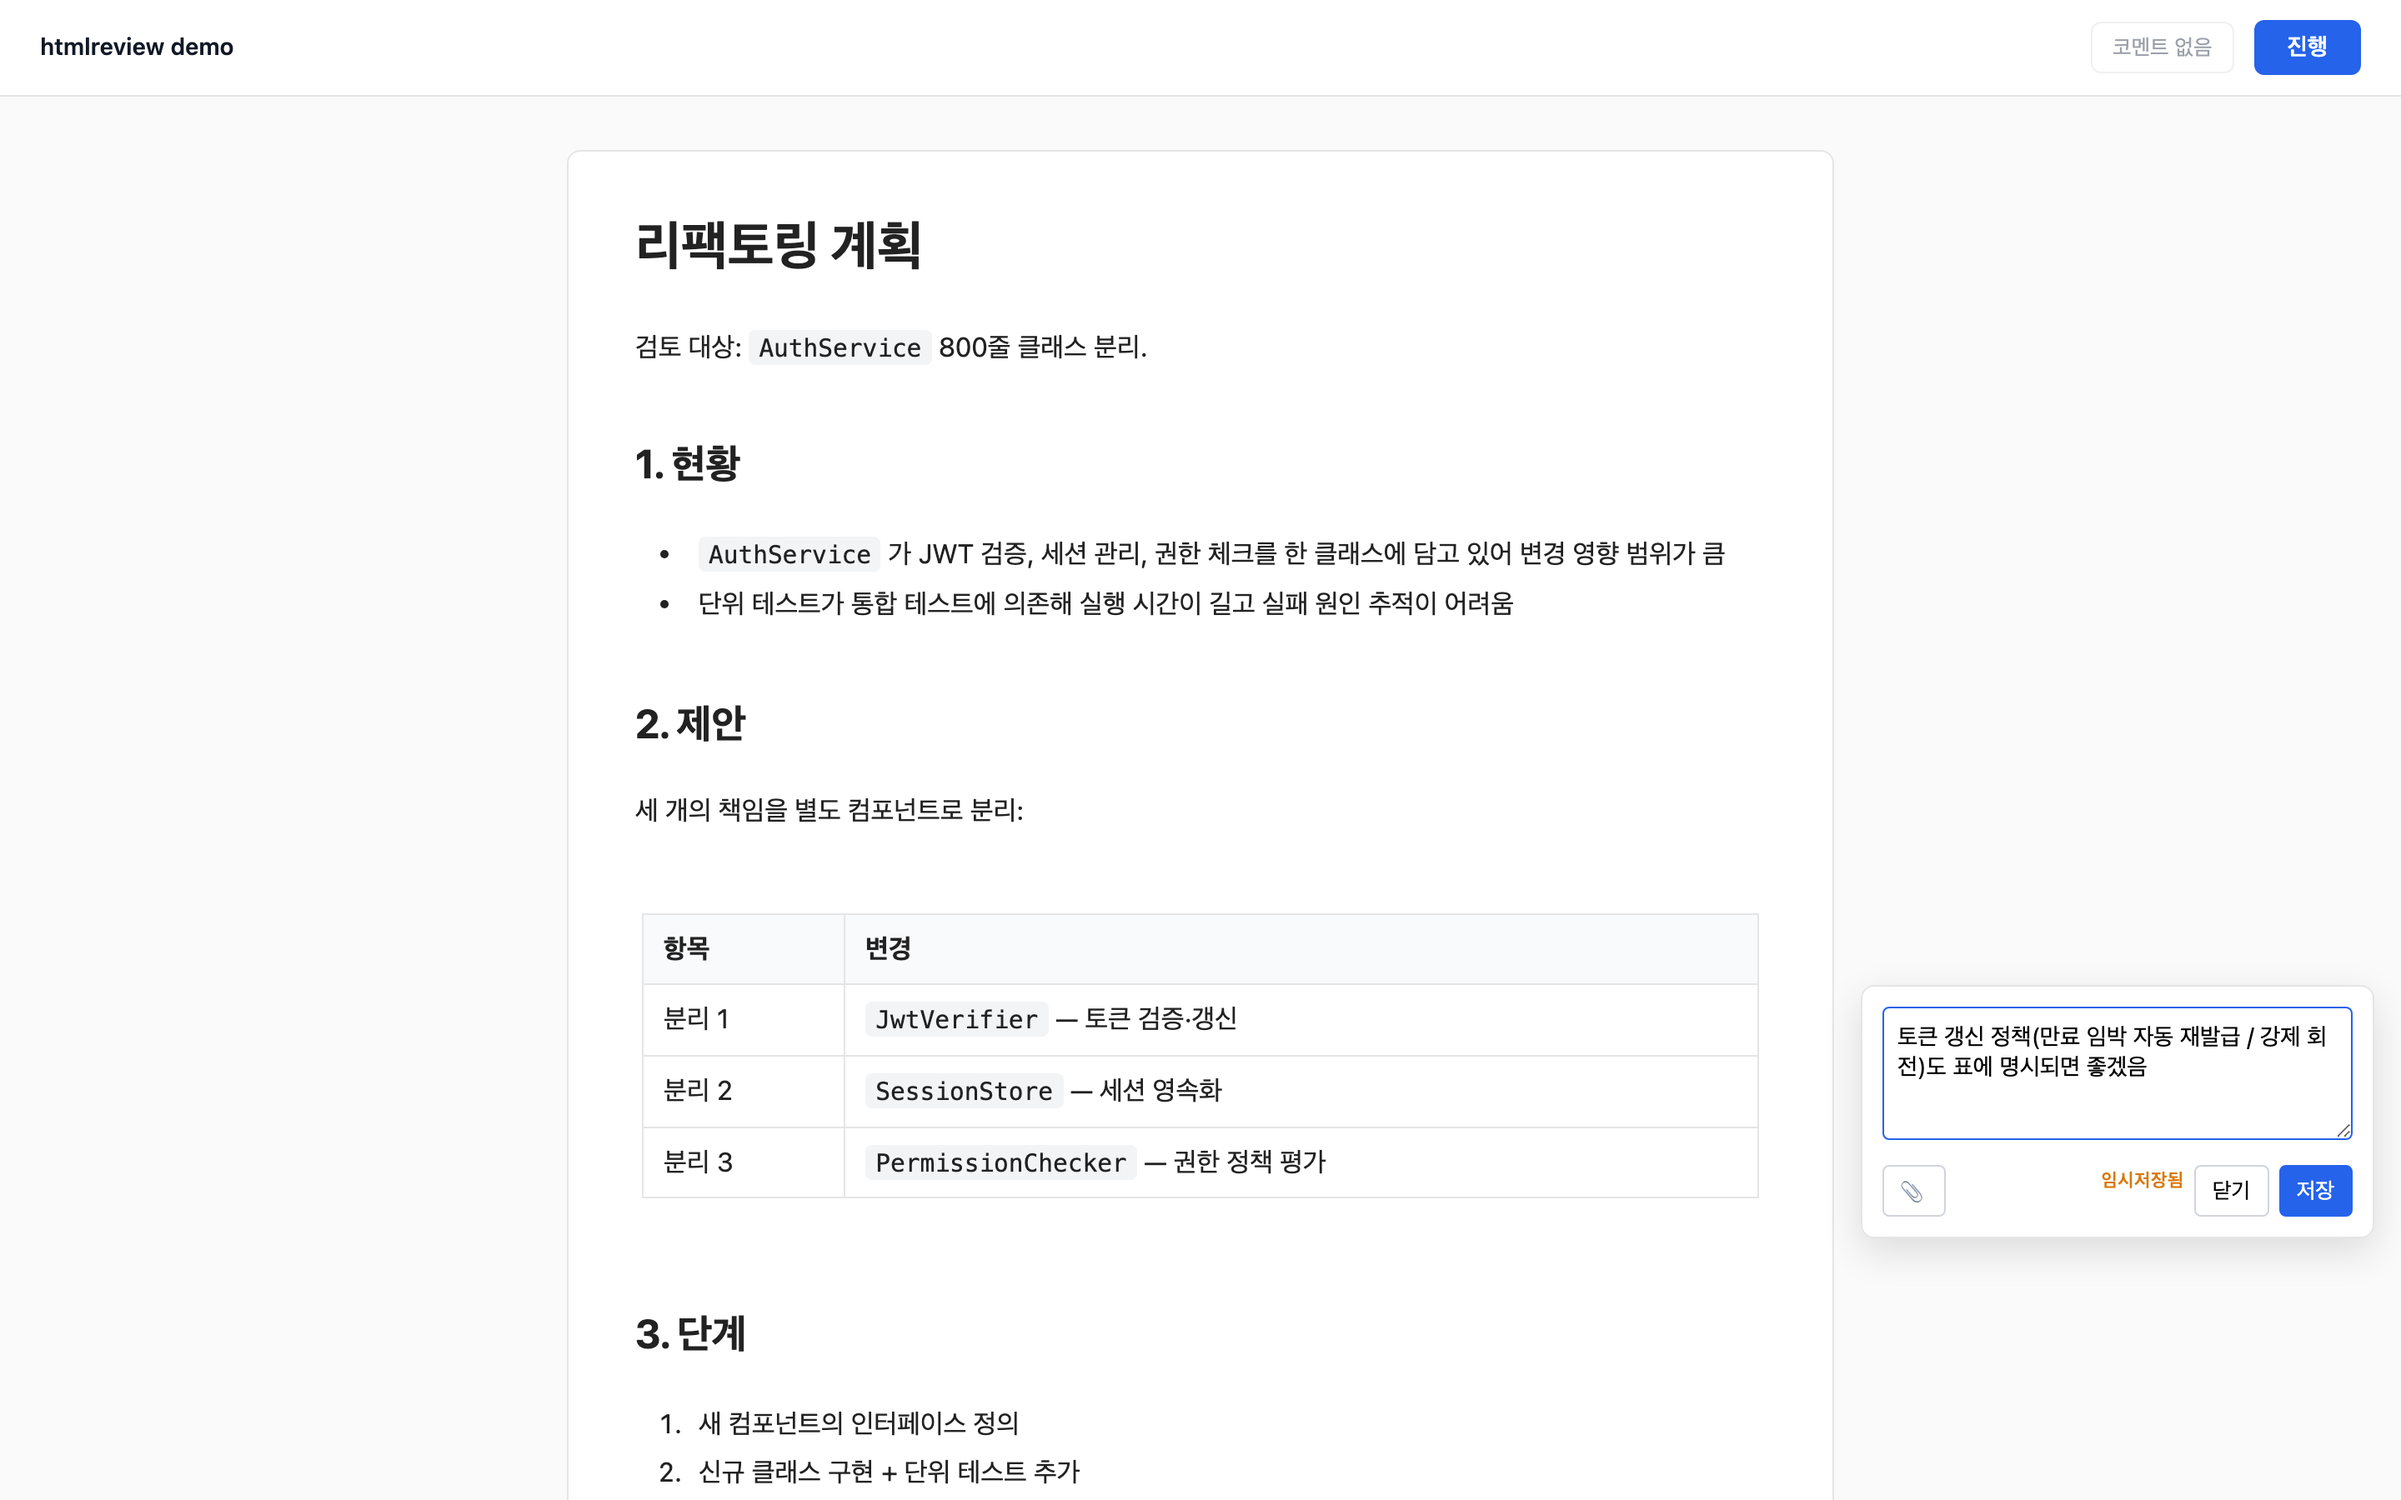
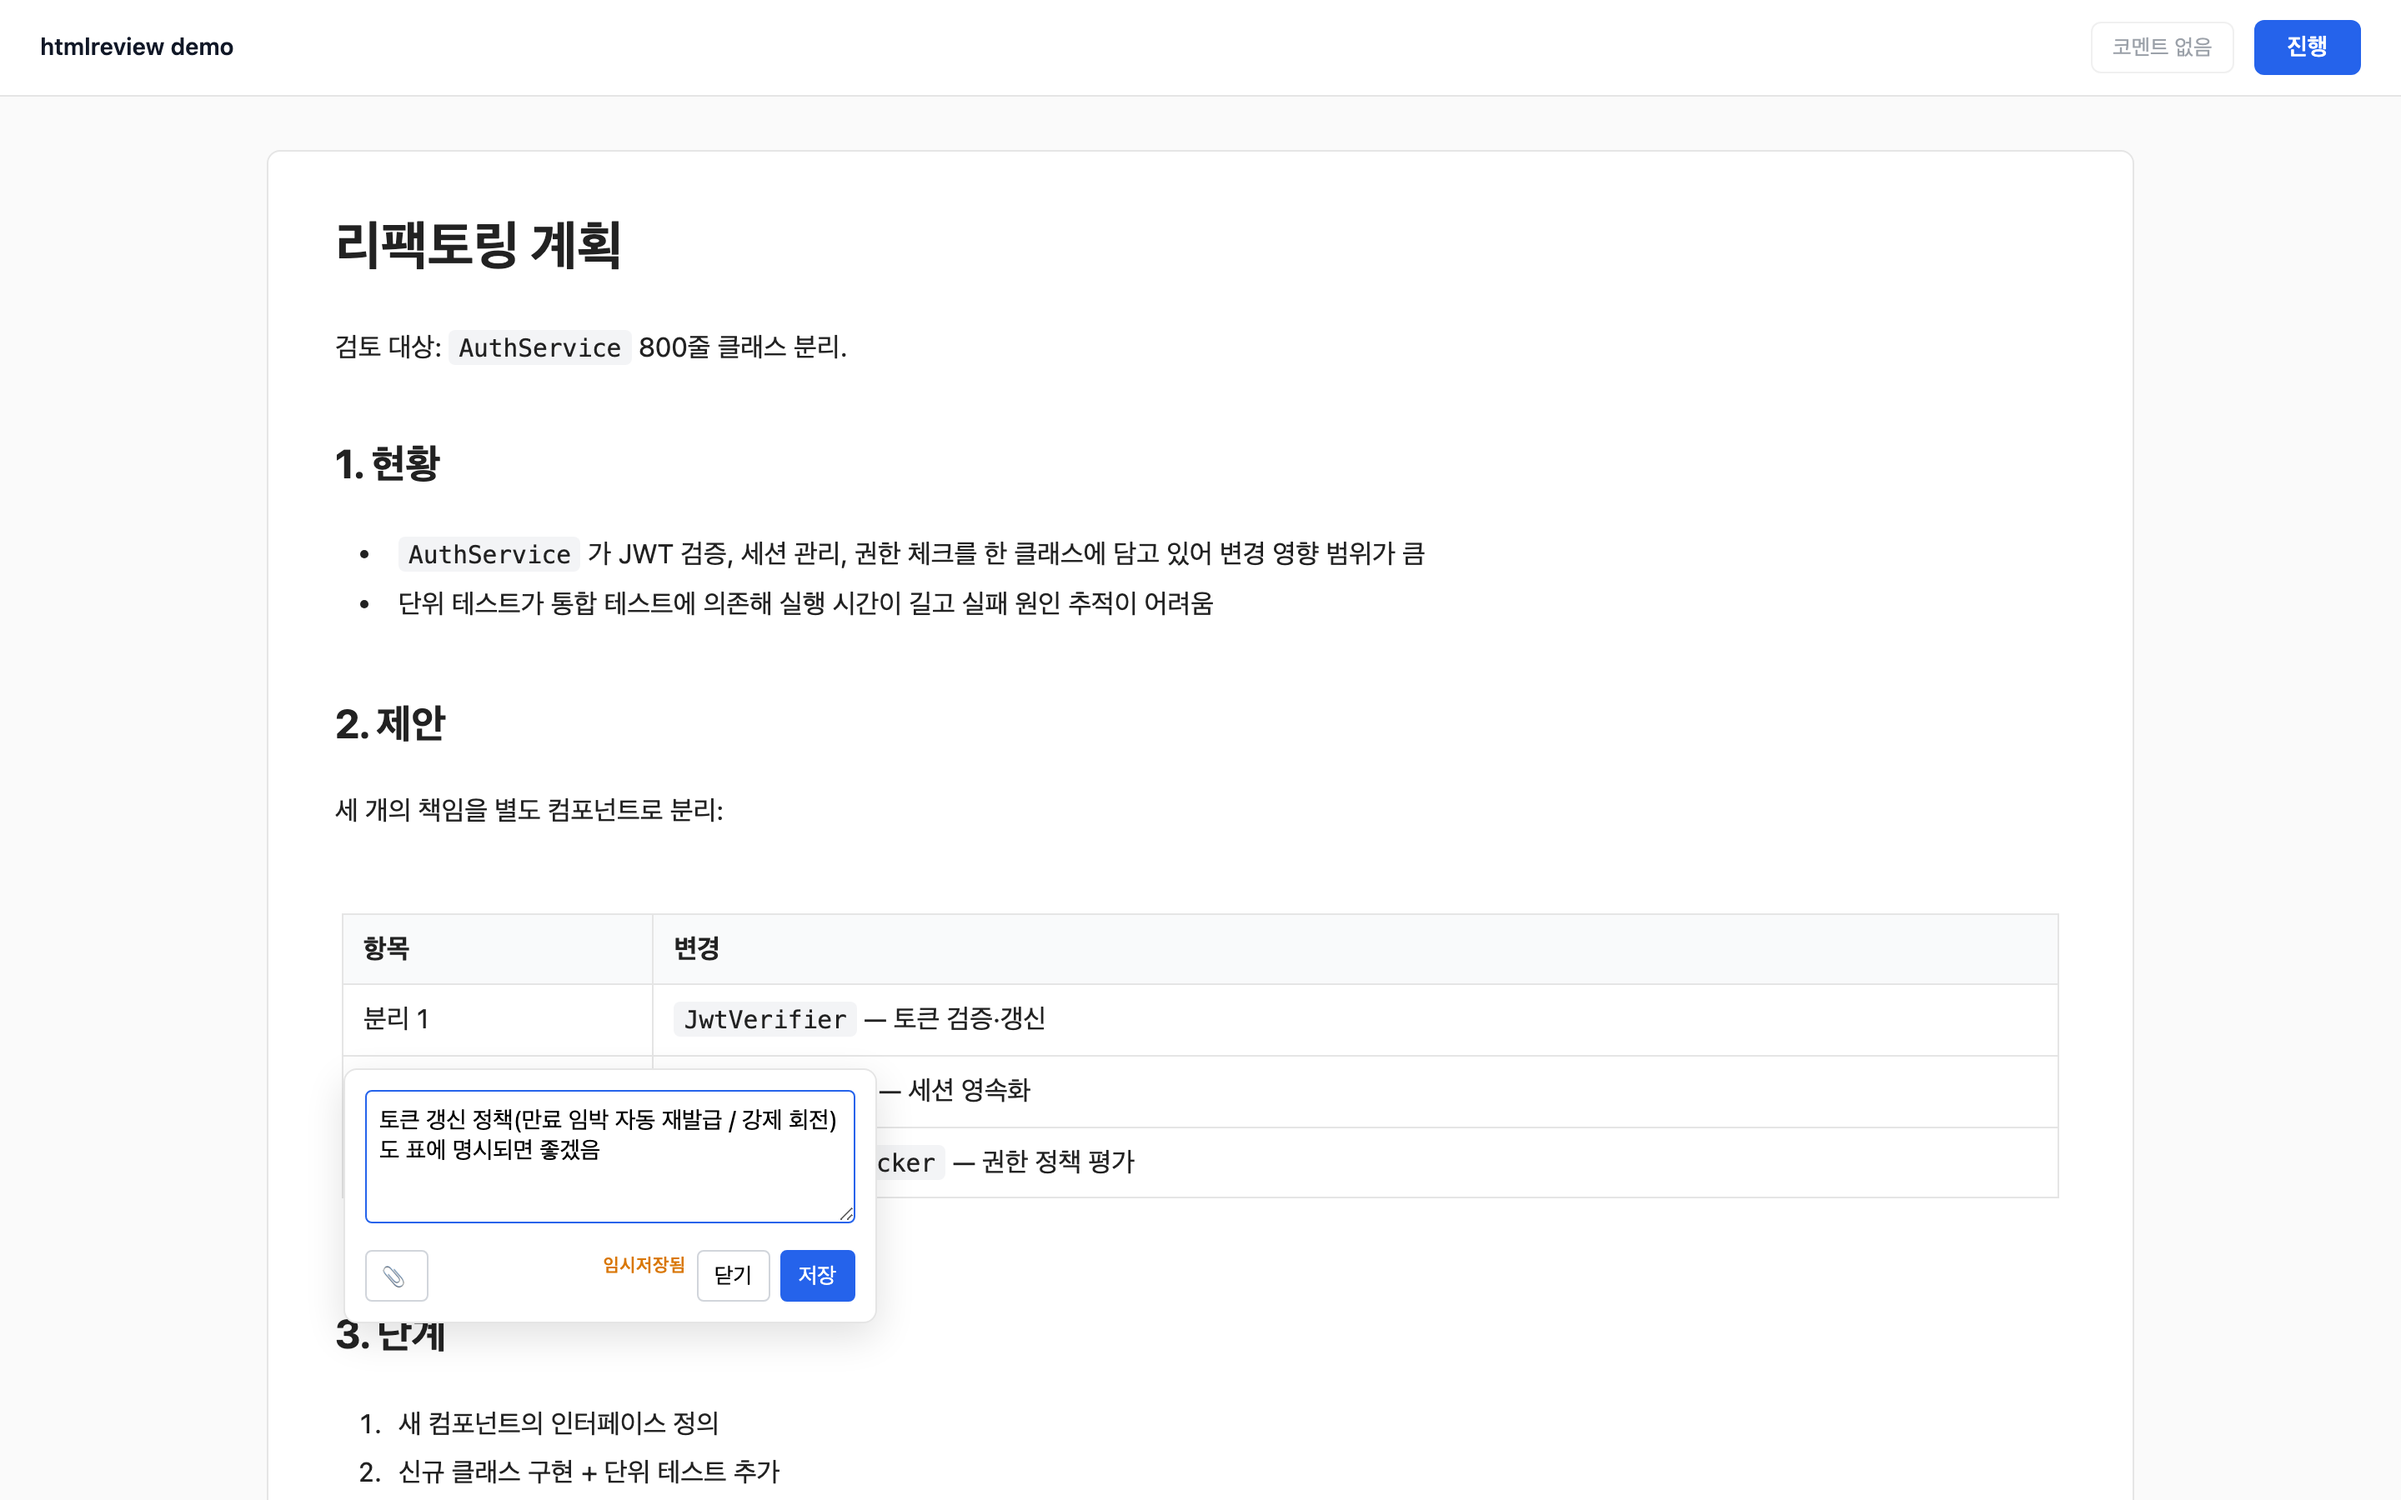
feat: add conversation review preset

diff --git a/web/style.css b/web/style.css
@@ -59,7 +59,7 @@ body {
 #submit-btn:hover { background: #1d4ed8; }
 
 .md-doc {
-  max-width: 760px;
+  max-width: 1120px;
   margin: 32px auto;
   padding: 32px;
   background: #fff;

diff --git a/README.ko.md b/README.ko.md
@@ -15,6 +15,10 @@
 |---|---|
 | ![코멘트 버블](https://raw.githubusercontent.com/Sangminnn/htmlreview/main/docs/screenshots/bubble.png) | ![revision 사이드바](https://raw.githubusercontent.com/Sangminnn/htmlreview/main/docs/screenshots/revision.png) |
 
+### Conversation review preset
+
+![Conversation review preset](https://raw.githubusercontent.com/Sangminnn/htmlreview/main/docs/screenshots/conversation-review.png)
+
 ## 설치
 
 ```bash
@@ -35,6 +39,9 @@ htmlreview design.html
 
 # 다음 라운드 — 이전 라운드 코멘트와 반영 내역을 사이드바에 표시
 htmlreview revised.md --revision-report round-1.json
+
+# Conversation review — assistant 응답을 시각적 리뷰 산출물로 변환
+htmlreview docs/examples/conversation-review.json --preset conversation-review
 ```
 
 | 옵션 | 기본값 | 비고 |
@@ -43,10 +50,33 @@ htmlreview revised.md --revision-report round-1.json
 | `--port <n>` | random ephemeral | HTTP 포트 |
 | `--no-open` | — | 브라우저 자동 열기 안 함 |
 | `--input-format <md\|html>` | 확장자 추론 | 입력 형식 강제 |
+| `--preset <name>` | — | 입력을 리뷰 전에 변환. 지원: `conversation-review` |
 | `--revision-report <file>` | — | 이전 라운드 `AnnotationCollection` JSON |
 | `--timeout <seconds>` | — | N초 내 제출 없으면 실패 종료 |
 | `-v / --version` | — | 버전 출력 |
 | `-h / --help` | — | 도움말 |
+
+## Conversation review preset
+
+agent 응답이 그대로 두면 skim-bait 이 될 때 사용합니다: 비교, 롤아웃 계획, 마이그레이션 위험도, 아키텍처 결정처럼 원문보다 구조 파악이 중요한 답변입니다.
+
+입력은 JSON 입니다:
+
+```json
+{
+  "title": "Checkout migration review",
+  "userText": "We need to migrate checkout from a legacy session-based flow to a new payment orchestration service. Compare three rollout strategies, show the risks for inventory reservation and coupon rollback, and propose a phased plan that support, backend, and frontend can all review.",
+  "assistantText": "## Recommendation\n\nUse a shadow-write rollout first..."
+}
+```
+
+실행:
+
+```bash
+htmlreview docs/examples/conversation-review.json --preset conversation-review
+```
+
+preset은 시각화 필요도 점수, 감지된 신호, 문서 밀도, 구조 지도, 핵심 항목 후보, 접을 수 있는 원문 응답을 포함한 self-contained HTML 산출물을 만듭니다. 목표는 markdown을 HTML로 감싸는 것이 아니라, 텍스트 벽을 브라우저에서 검토 가능한 화면으로 바꾸는 것입니다.
 
 ## 출력 schema
 

diff --git a/README.md b/README.md
@@ -19,6 +19,10 @@ conformant annotation tool — no bespoke JSON shape.
 |---|---|
 | ![Comment bubble](https://raw.githubusercontent.com/Sangminnn/htmlreview/main/docs/screenshots/bubble.png) | ![Revision sidebar](https://raw.githubusercontent.com/Sangminnn/htmlreview/main/docs/screenshots/revision.png) |
 
+### Conversation review preset
+
+![Conversation review preset](https://raw.githubusercontent.com/Sangminnn/htmlreview/main/docs/screenshots/conversation-review.png)
+
 ## Install
 
 ```bash
@@ -39,6 +43,9 @@ htmlreview design.html
 
 # Multi-round — show previous round's comments + your resolutions in sidebar
 htmlreview revised.md --revision-report round-1.json
+
+# Conversation review — turn assistant output into a visual review artifact
+htmlreview docs/examples/conversation-review.json --preset conversation-review
 ```
 
 | Option | Default | Notes |
@@ -47,10 +54,38 @@ htmlreview revised.md --revision-report round-1.json
 | `--port <n>` | random ephemeral | HTTP port |
 | `--no-open` | — | Don't auto-open browser |
 | `--input-format <md\|html>` | inferred from ext (`.md`/`.html`) | Force input format |
+| `--preset <name>` | — | Transform input before review. Supported: `conversation-review` |
 | `--revision-report <file>` | — | Previous round `AnnotationCollection` JSON |
 | `--timeout <seconds>` | — | Auto-fail if no submit within N seconds |
 | `-v / --version` | — | Print version |
 | `-h / --help` | — | Print help |
+
+## Conversation review preset
+
+Use this when an agent response would otherwise become skim-bait: comparisons,
+rollout plans, migration risk notes, architecture decisions, or any answer where
+structure matters more than raw prose.
+
+Input is JSON:
+
+```json
+{
+  "title": "Checkout migration review",
+  "userText": "We need to migrate checkout from a legacy session-based flow to a new payment orchestration service. Compare three rollout strategies, show the risks for inventory reservation and coupon rollback, and propose a phased plan that support, backend, and frontend can all review.",
+  "assistantText": "## Recommendation\n\nUse a shadow-write rollout first..."
+}
+```
+
+Run:
+
+```bash
+htmlreview docs/examples/conversation-review.json --preset conversation-review
+```
+
+The preset creates a self-contained HTML artifact with visual need scoring,
+detected signals, density metrics, a structure map, key item extraction, and a
+collapsible original response. The goal is not to wrap markdown in HTML; it is
+to turn a wall into a browser-native review surface.
 
 ## Output schema
 
